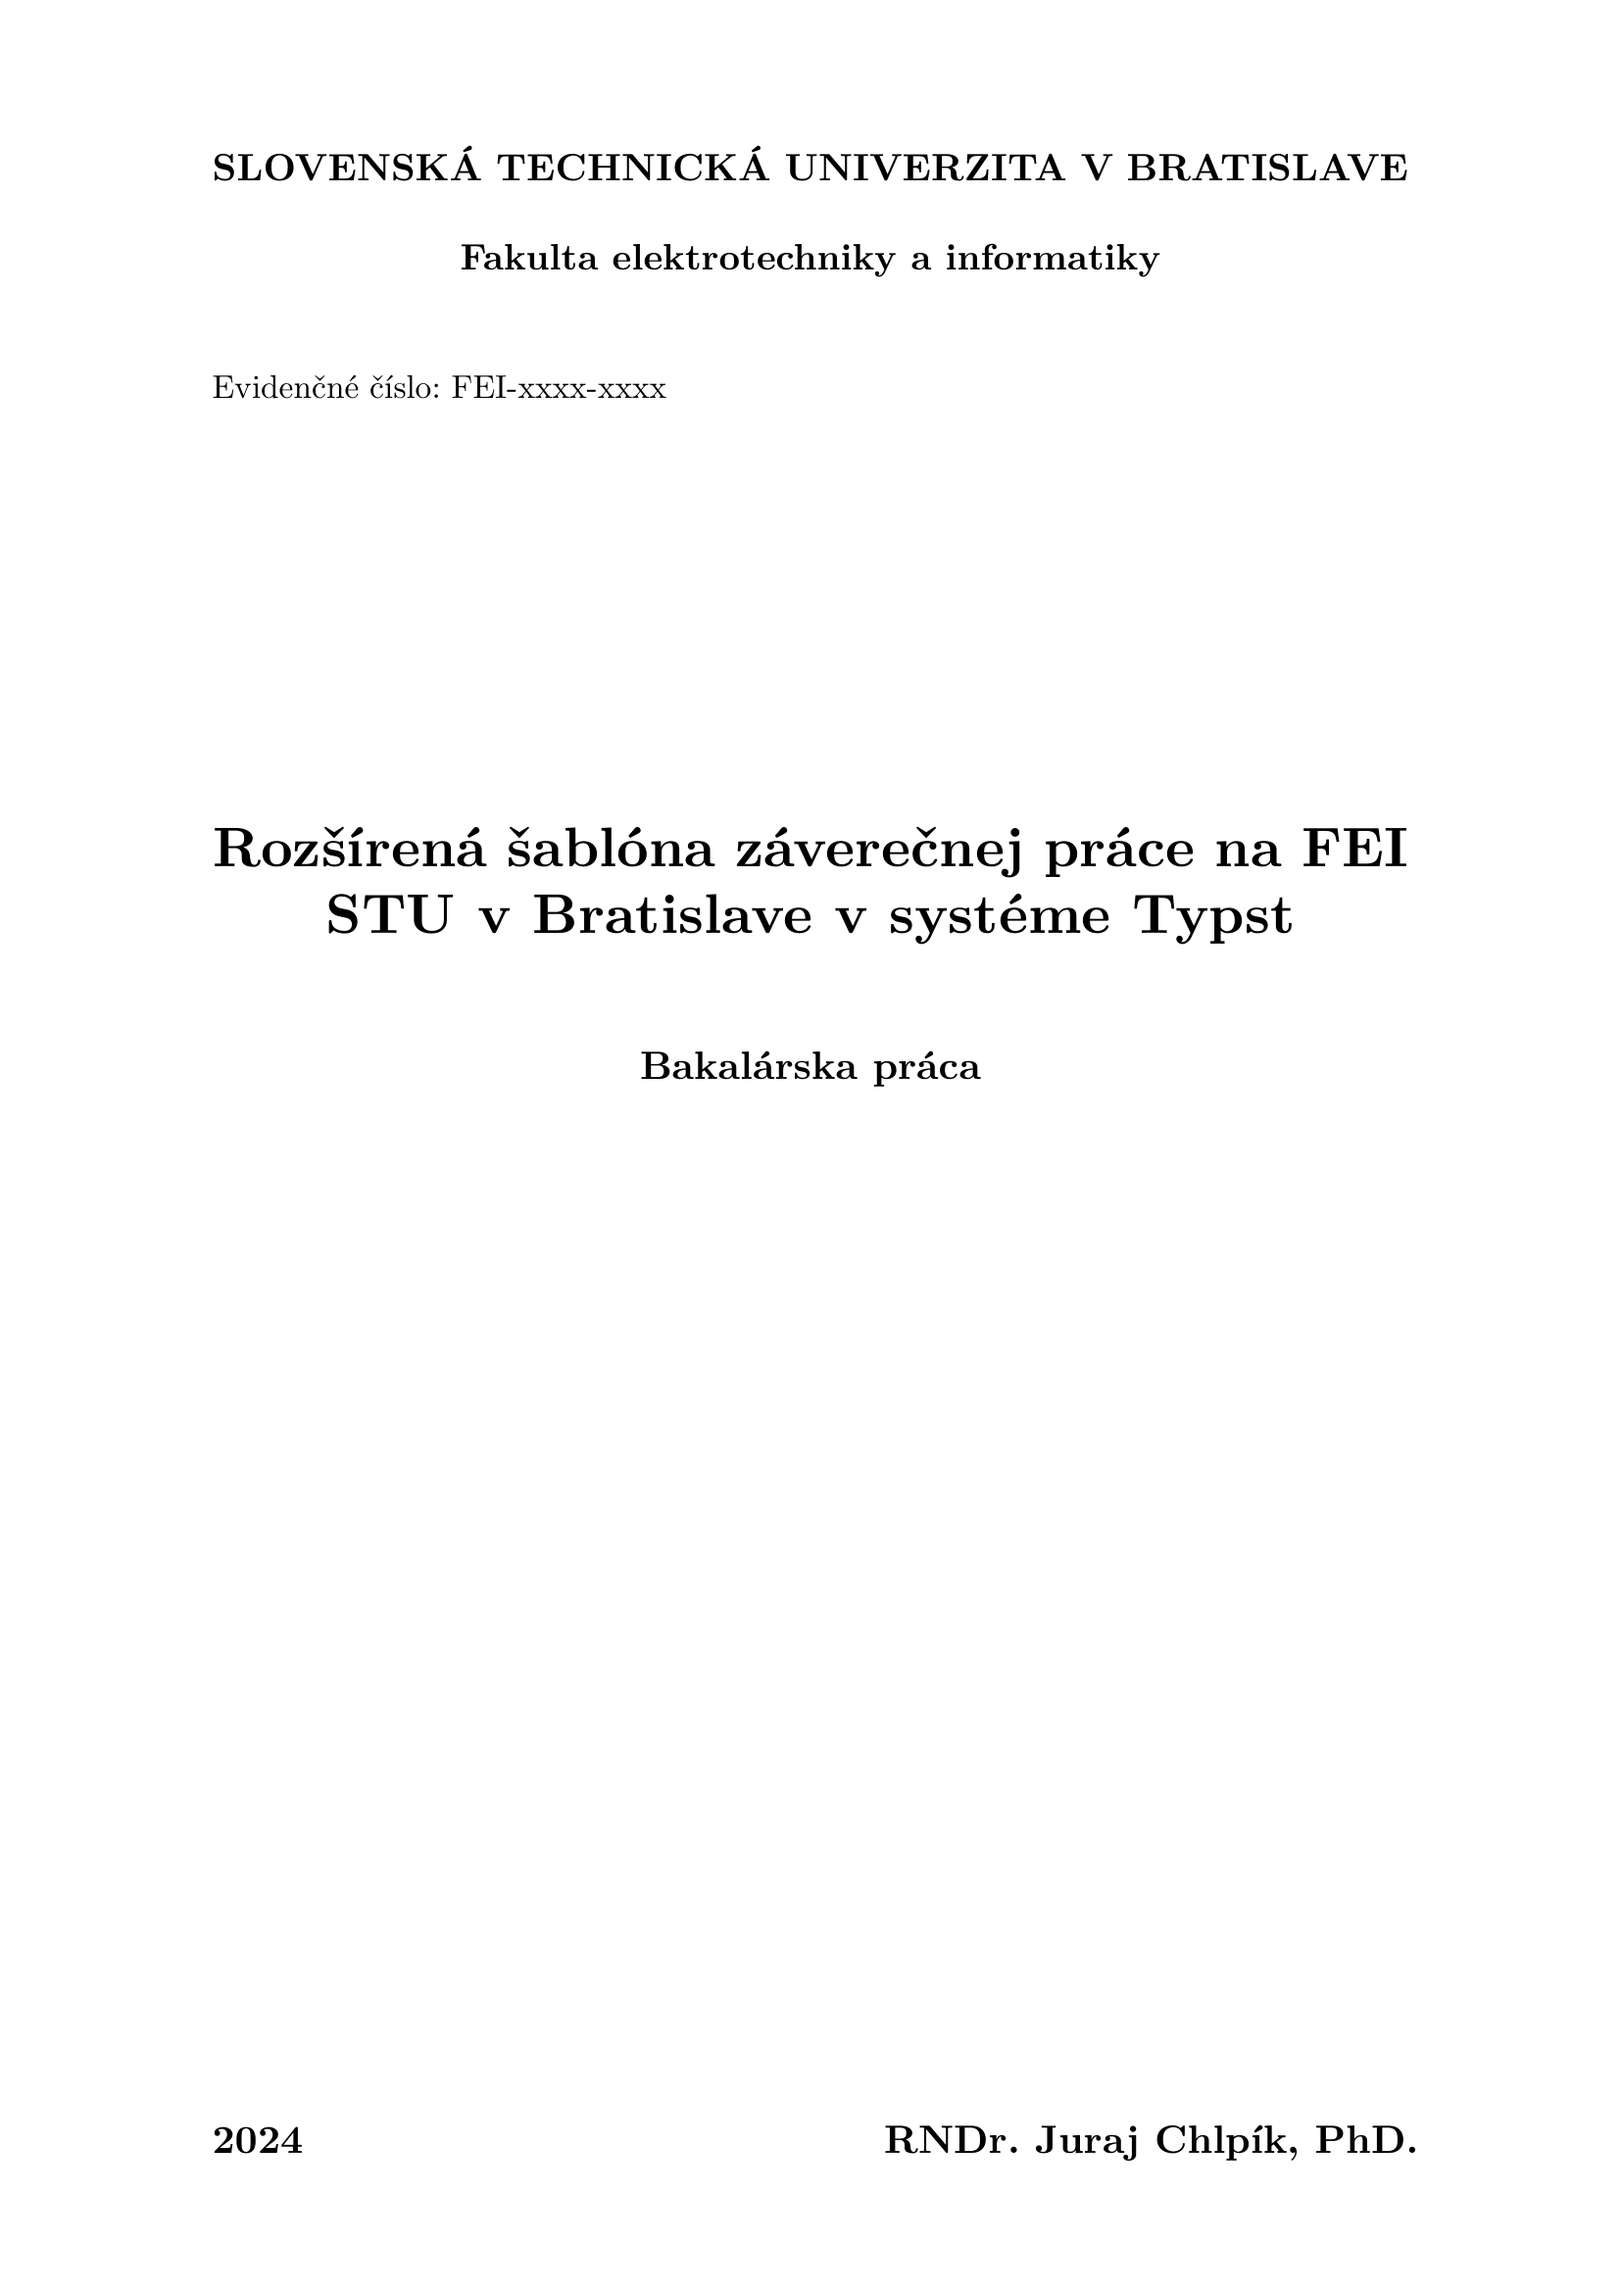
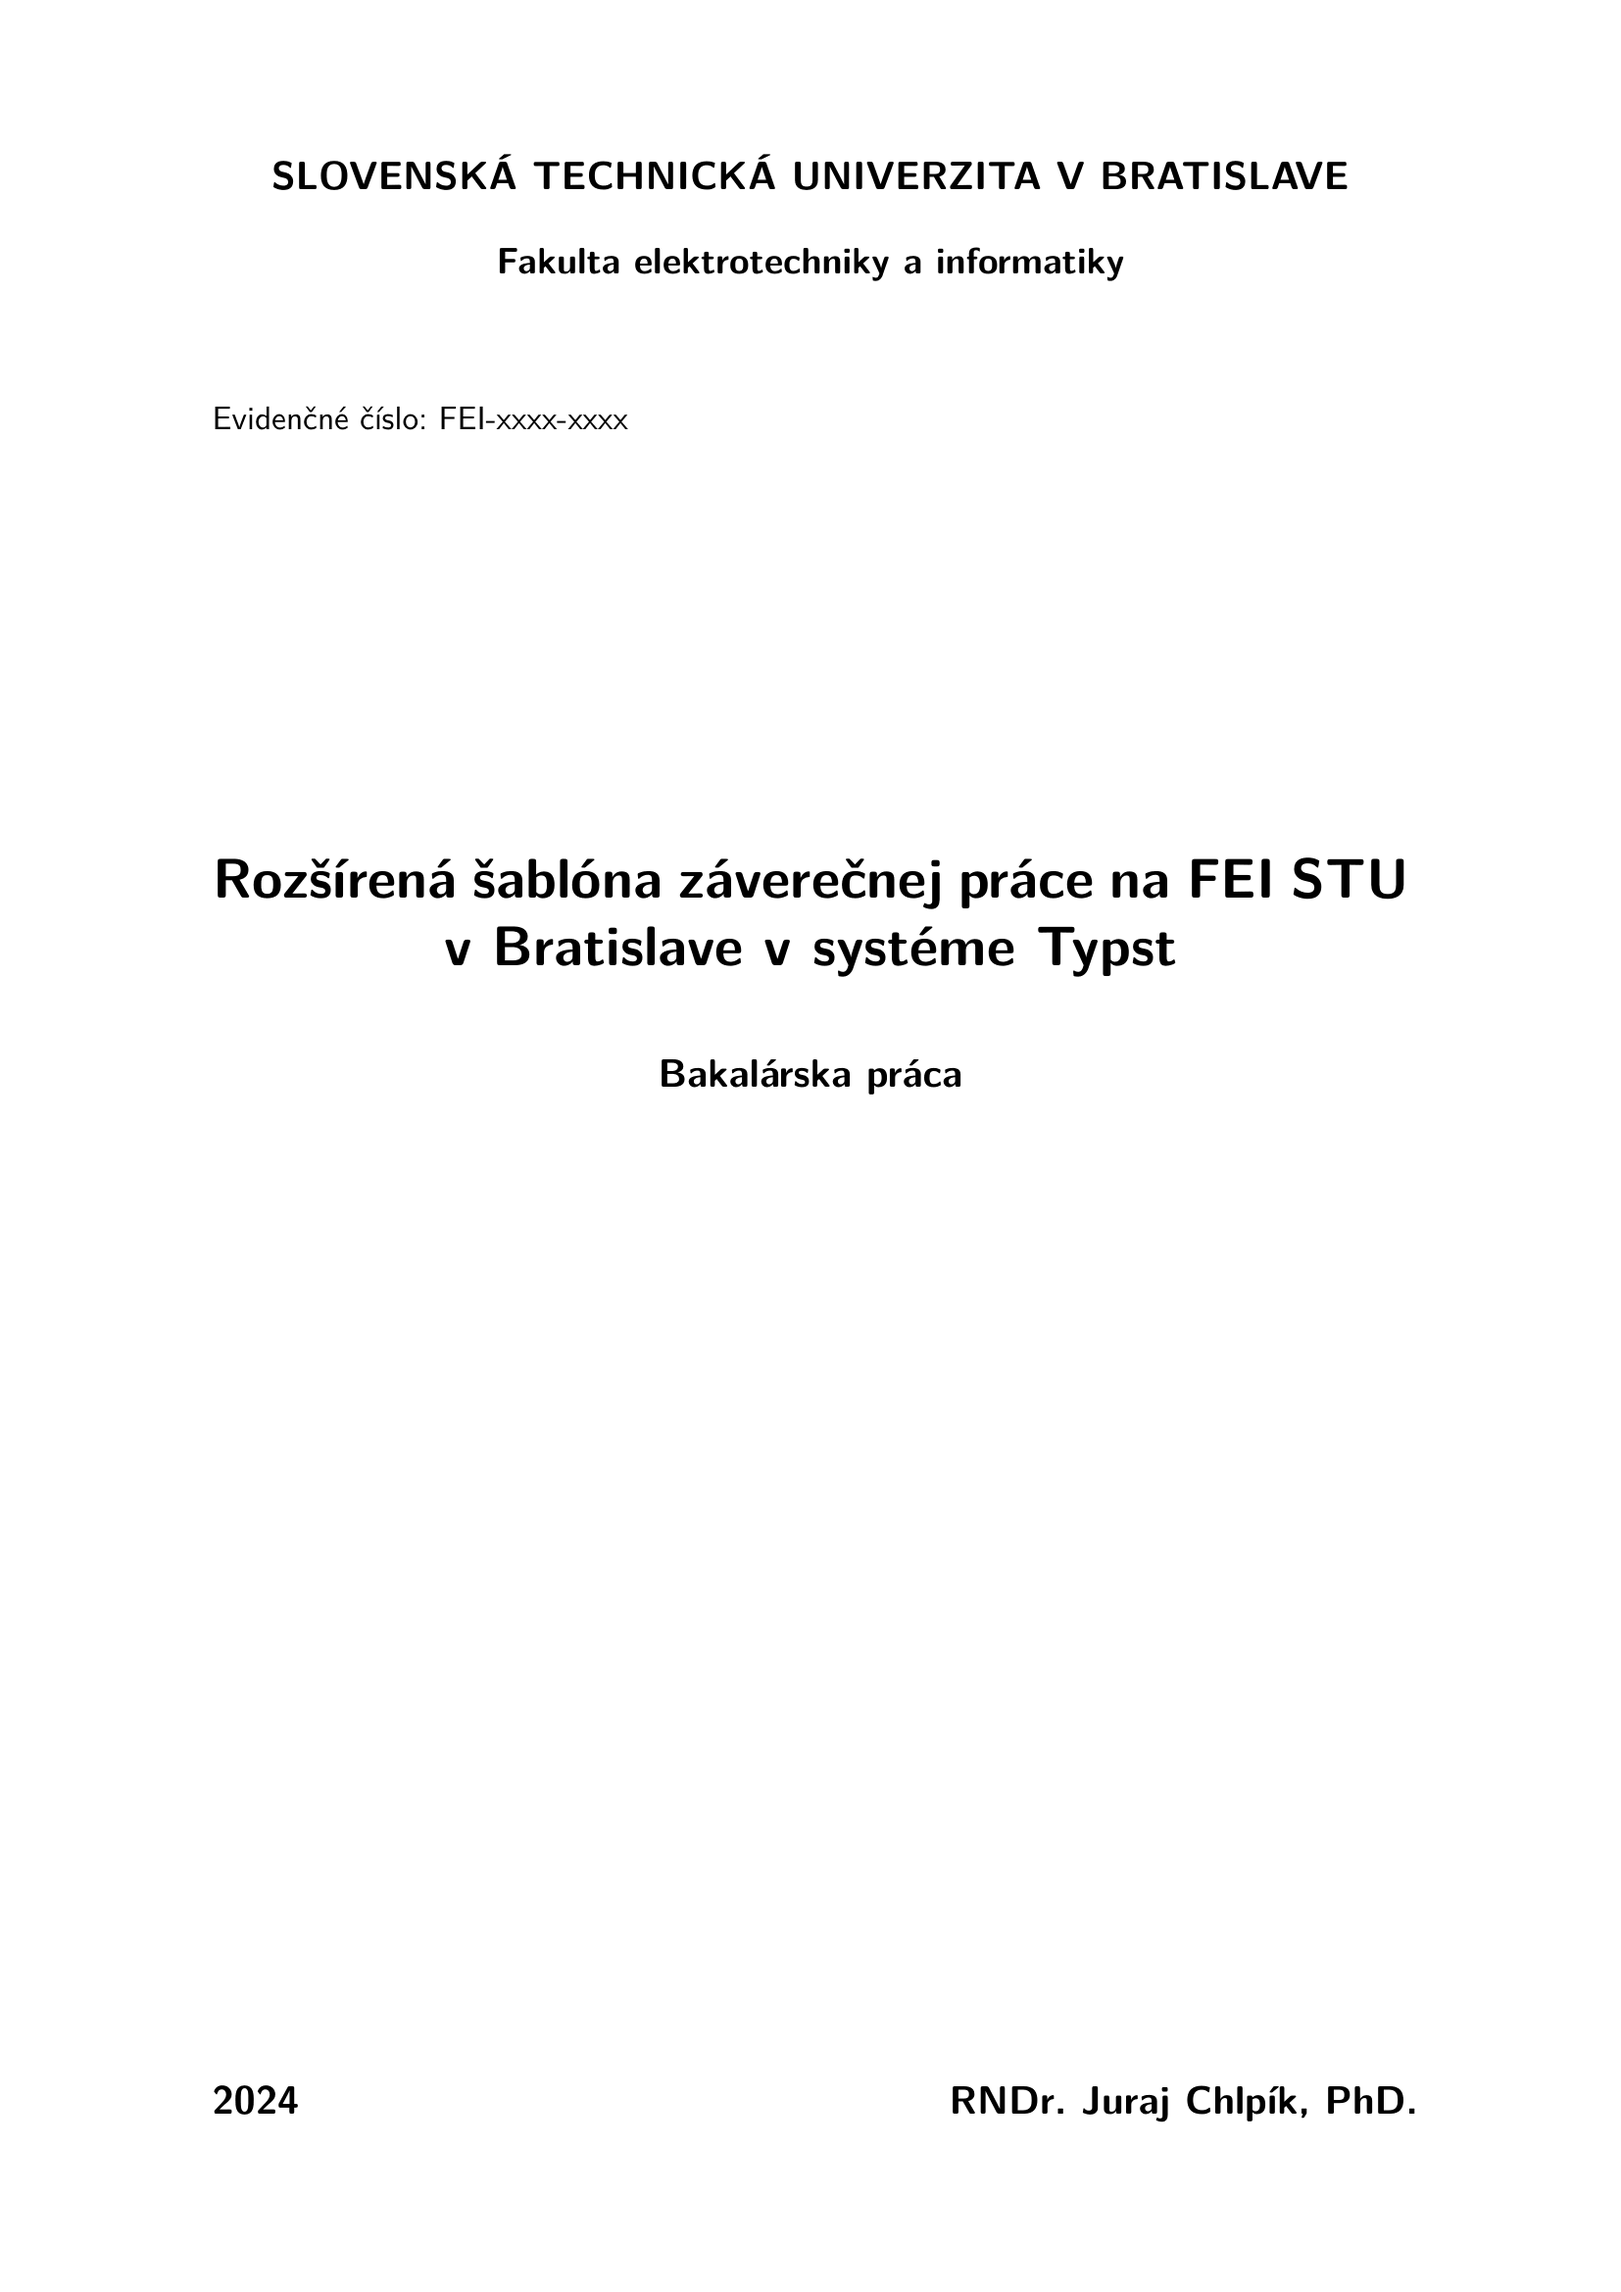
update readme

diff --git a/README.md b/README.md
@@ -90,7 +90,6 @@ on your title page, so fill them all in.
 | `date` | Printed as given — write it out, e.g. `"31. decembra 2024"`. |
 | `year` | Year of submission. |
 | `thesis-type` | e.g. `"Bakalárska práca"`, `"Diplomová práca"`. |
-| `keywords` / `keywords-en` | Slovak and English keywords, printed under the abstracts. |
 | `study-programme`, `study-field` | From your study plan. |
 | `school`, `faculty` | Pre-filled with STU / FEI. |
 | `supervisor`, `consultant` | With degrees. Leave `consultant` out if you have none. |
@@ -119,6 +118,20 @@ list at the front of the thesis is generated for you. If you would rather write 
 (useful when you need symbols and units), delete `#fei-list-of-glossaries(...)` from `main.typ` and
 uncomment `#fei-list-of-manual-glossaries(...)` instead.
 
+### Appendices
+
+All appendices go into a single `#fei-appendix[...]` block. Every level-1 heading inside it
+becomes one lettered appendix — the heading text is printed as *Dodatok A: Algoritmus* and the
+lettering continues automatically. To reference an appendix, put a label on its heading:
+
+```typst
+// includes/appendixA.typ
+= Algoritmus <alg:1>
+```
+
+and cite it in the text with `@alg:1`. Add or remove appendices by adding or removing includes
+(or headings) inside the block.
+
 ### Language
 
 `fei-thesis` takes `language: "sk"` (default) or `language: "en"`, which switches all generated
@@ -139,21 +152,19 @@ The full entry point, as shipped:
 #show: fei-thesis.with(language: "sk")
 
 #show: fei-setup.with((
-  title: "Rozšírená šablóna záverečnej práce na FEI STU v Bratislave v systéme Typst",
+  title: [Rozšírená šablóna záverečnej práce na FEI STU v~Bratislave v systéme Typst],
   author: "RNDr. Juraj Chlpík, PhD.",
-  reg-nr: "FEI-xxxx-xxxx",
-  date: "31. decembra 2024",
-  year: "2024",
-  thesis-type: "Bakalárska práca",
-  keywords: [záverečná práca, šablóna, Typst, formátovanie textu, citácie],
-  keywords-en: [Final thesis, template, Typst, text formatting, citations],
-  study-programme: "názov študijného programu",
-  study-field: "názov študijného odboru",
-  school: "Slovenská technická univerzita v Bratislave",
-  faculty: "Fakulta elektrotechniky a informatiky",
-  supervisor: "tituly Meno Priezvisko, tituly",
-  consultant: "tituly Meno Priezvisko, tituly",
-  training-workplace: "Názov školiaceho pracoviska",
+  reg-nr: [FEI-xxxx-xxxx],
+  date: [31. decembra 2024],
+  year: [2024],
+  thesis-type: [Bakalárska práca],
+  study-programme: [názov študijného programu],
+  study-field: [názov študijného odboru],
+  school: [Slovenská technická univerzita v Bratislave],
+  faculty: [Fakulta elektrotechniky a informatiky],
+  supervisor: [tituly Meno Priezvisko, tituly],
+  consultant: [tituly Meno Priezvisko, tituly],
+  training-workplace: [Názov školiaceho pracoviska],
 ))
 
 #fei-cover-page()
@@ -162,8 +173,17 @@ The full entry point, as shipped:
 
 #fei-thanks[#include "includes/thanks.typ"]
 
-#fei-abstract([#include "includes/abstractSK.typ"], lang: "sk")
-#fei-abstract([#include "includes/abstractEN.typ"], lang: "en")
+#fei-abstract(
+  [#include "includes/abstractSK.typ"],
+  lang: "sk",
+  [záverečná práca, šablóna, Typst, formátovanie textu, citácie],
+)
+
+#fei-abstract(
+  [#include "includes/abstractEN.typ"],
+  lang: "en",
+  [Final thesis, template, Typst, text formatting, citations],
+)
 
 #show: start-numbering.with()
 
@@ -180,9 +200,11 @@ The full entry point, as shipped:
 #bibliography("bibliography.bib")
 #fei-ai-declaration[#include "includes/ai_declaration.typ"]
 
-#fei-appendix([#include "includes/appendixA.typ"], [Algoritmus], label-name: "alg:1")
-#fei-appendix([#include "includes/appendixB.typ"], [Výpis dlhého kódu], label-name: "code:1")
-#fei-appendix([#include "includes/appendixC.typ"], [Slovníček pojmov], label-name: "glossary:1")
+#fei-appendix[
+  #include "includes/appendixA.typ"
+  #include "includes/appendixB.typ"
+  #include "includes/appendixC.typ"
+]
 ```
 
 ## Function reference
@@ -194,7 +216,7 @@ The full entry point, as shipped:
 | `fei-cover-page()` / `fei-title-page()` | The two mandated front pages. |
 | `fei-assignment(pdf, pages: 1)` | Inserts your assignment PDF, one full page each. |
 | `fei-thanks(body)` | Acknowledgements page. |
-| `fei-abstract(body, lang: "sk")` | Abstract plus the matching keywords. Call once per language. |
+| `fei-abstract(body, lang: "sk", keywords)` | Abstract plus its keywords. Call once per language. |
 | `start-numbering(body)` | Starts page numbering here. Apply as a `#show` rule after the front matter. |
 | `fei-outline()` | Table of contents. |
 | `fei-list-of-glossaries(body)` | List of abbreviations, generated from `abbr.load(...)`. |
@@ -203,7 +225,7 @@ The full entry point, as shipped:
 | `fei-outline-figures-tables()` | List of figures and tables. |
 | `fei-introduction(body)`, `fei-core(body)`, `fei-conclusion(body)` | The three main parts, each with the right heading and page break. |
 | `fei-ai-declaration(body)` | Declaration of AI-tool usage. |
-| `fei-appendix(body, title, label-name: none)` | One appendix, lettered A, B, C… `label-name` gives you a reference target such as `@alg:1`. |
+| `fei-appendix(body)` | Wraps all appendices at once. Every level-1 heading inside becomes a lettered appendix — *Dodatok A*, *B*, *C*… |
 | `noindent(body)` / `indent(body)` | Suppress or force the first-line indent for a block of text. |
 
 ## Packages
